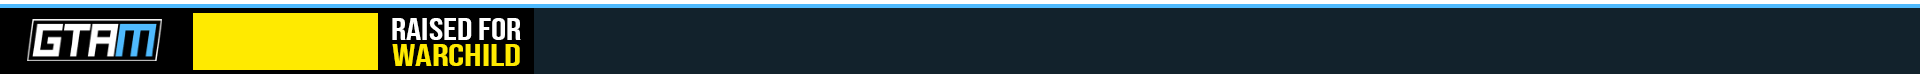
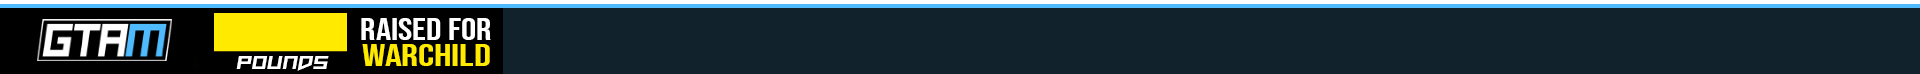
Update omnibar for GBP

Changed region(s): [[0.0, 0.1081, 0.2812, 1.0]]

diff --git a/src/browser/graphics/components/omnibar/Donationtotal.tsx b/src/browser/graphics/components/omnibar/Donationtotal.tsx
@@ -29,7 +29,7 @@ const DonationTotalComponent: React.FC<DonationTotalProps> = ({ style }) => {
         ease: 'power4',
         onUpdate: () => {
           if (totalRef.current) {
-            totalRef.current.innerHTML = `$${dataRef.current.total.toLocaleString('en-US', {
+            totalRef.current.innerHTML = `${dataRef.current.total.toLocaleString('en-GB', {
               maximumFractionDigits: 0,
               minimumFractionDigits: 0,
             })}`
@@ -51,11 +51,11 @@ const DonationTotalComponent: React.FC<DonationTotalProps> = ({ style }) => {
     <div
       style={{
         position: 'absolute',
-        left: '193px',
-        top: '41px',
+        left: '214px',
+        top: '33px',
         transform: 'translateY(-50%)',
-        width: '185px',
-        height: '57px',
+        width: '135px',
+        height: '50px',
         display: 'flex',
         justifyContent: 'center',
         alignItems: 'center',
@@ -66,7 +66,7 @@ const DonationTotalComponent: React.FC<DonationTotalProps> = ({ style }) => {
       }}
     >
       <div id="Total" ref={totalRef}>
-        {`$${dataRef.current.total.toLocaleString('en-US', {
+        {`${dataRef.current.total.toLocaleString('en-GB', {
           maximumFractionDigits: 0,
           minimumFractionDigits: 0,
         })}`}
